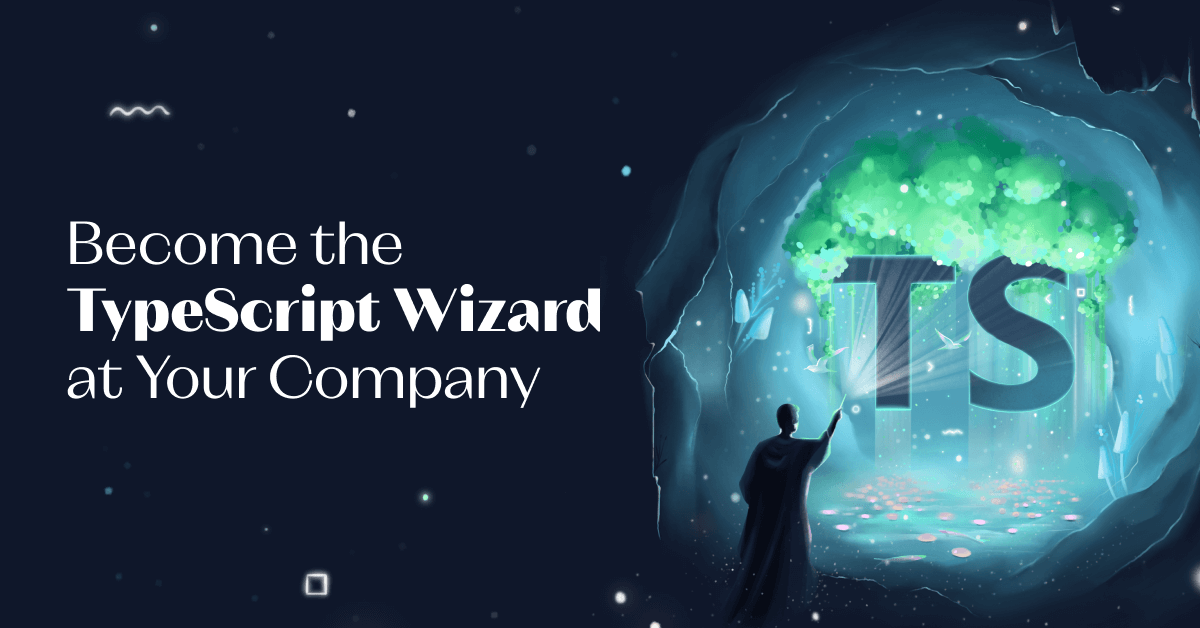
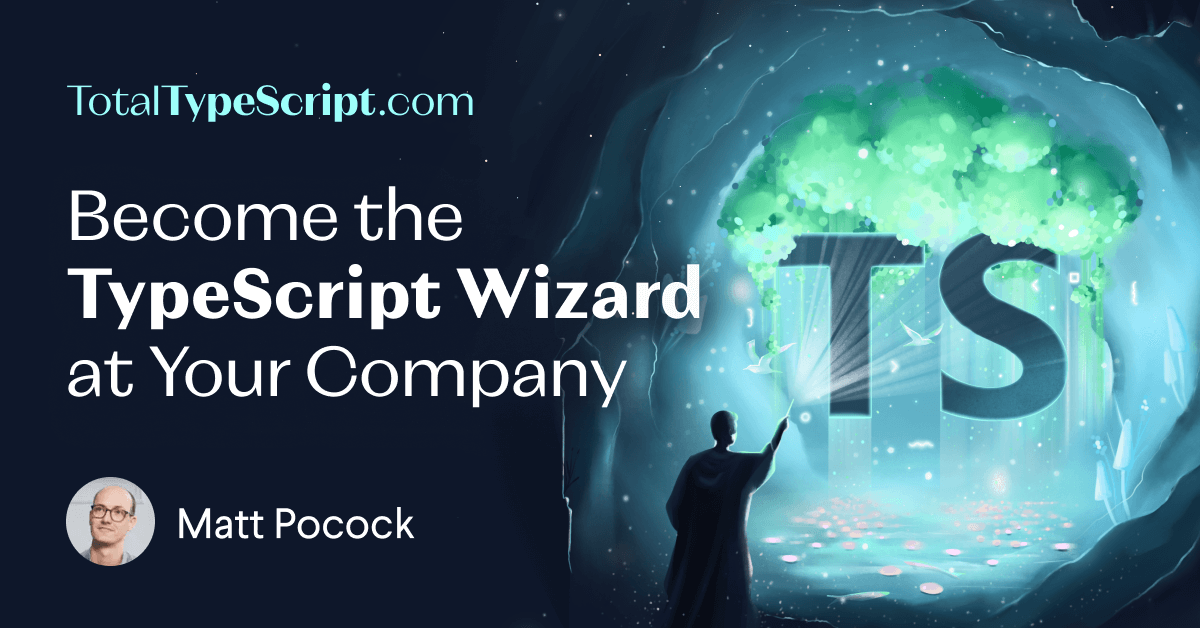
feat(tt): prep CTAs for PE and CV (#1579)
* feat(tt): prepare home page cta for PE and CV products

* feat(tt): prepare buy page cta for PE and CV products

* style(tt): update default share card

diff --git a/apps/total-typescript/src/pages/buy.tsx b/apps/total-typescript/src/pages/buy.tsx
@@ -1,6 +1,9 @@
 import React from 'react'
 import {GetServerSideProps} from 'next'
-import type {CommerceProps} from '@skillrecordings/commerce-server/dist/@types'
+import type {
+  CommerceProps,
+  SanityProduct,
+} from '@skillrecordings/commerce-server/dist/@types'
 import {propsForCommerce} from '@skillrecordings/commerce-server'
 import {Element} from 'react-scroll'
 import {Pricing} from '@skillrecordings/skill-lesson/path-to-purchase/pricing'
@@ -11,7 +14,7 @@ import {motion, useScroll, useTransform} from 'framer-motion'
 import {useCoupon} from '@skillrecordings/skill-lesson/path-to-purchase/use-coupon'
 import cx from 'classnames'
 import {PriceCheckProvider} from '@skillrecordings/skill-lesson/path-to-purchase/pricing-check-context'
-import {getPricing} from '@skillrecordings/skill-lesson/lib/pricing'
+import {getPricing} from '@/lib/pricing'
 
 export const getServerSideProps: GetServerSideProps = async (context) => {
   const {req, query} = context
@@ -20,7 +23,11 @@ export const getServerSideProps: GetServerSideProps = async (context) => {
   const pricing = await getPricing('primary')
   const products = pricing && pricing.products
 
-  return await propsForCommerce({query, token, products})
+  return await propsForCommerce({
+    query,
+    token,
+    products: products as unknown as SanityProduct[],
+  })
 }
 
 const Buy: React.FC<React.PropsWithChildren<CommerceProps>> = ({
@@ -63,14 +70,11 @@ const Buy: React.FC<React.PropsWithChildren<CommerceProps>> = ({
   const purchasedProductIds = purchases.map((purchase) => purchase.productId)
 
   const sortedProductsByName = products.sort((a, b) => {
-    if (a.title === 'Core Volume') {
+    if (a.title === 'TypeScript Pro Essentials') {
       return -1
     }
-    if (b.title === 'Core Volume + React Bundle') {
+    if (b.title === 'Complete Volume') {
       return 0
-    }
-    if (b.title === 'Advanced React with TypeScript') {
-      return 1
     }
     return 0
   })
@@ -96,8 +100,8 @@ const Buy: React.FC<React.PropsWithChildren<CommerceProps>> = ({
         className="select-none object-contain object-top"
         quality={100}
       />
-      <main className="relative z-10 flex flex-col items-center justify-center py-28 sm:py-36">
-        <h1 className="relative z-10 px-5 pb-10 pt-5 text-center font-heading text-4xl font-bold sm:text-5xl">
+      <main className="relative z-10 flex flex-col items-center justify-center py-24 sm:py-32">
+        <h1 className="relative z-10 px-5 pb-16 pt-5 text-center font-heading text-4xl font-bold sm:text-5xl">
           Become a TypeScript Wizard
         </h1>
         <motion.div style={{y}} className="absolute top-0 h-screen w-full">
@@ -110,26 +114,22 @@ const Buy: React.FC<React.PropsWithChildren<CommerceProps>> = ({
             quality={100}
           />
         </motion.div>
-        <section className="px-5 pt-20">
-          <div className="grid gap-40 lg:flex lg:gap-8 xl:gap-16">
+        <section className="px-5 pt-24">
+          <div className="flex flex-col-reverse gap-40 lg:flex lg:flex-row lg:gap-0">
             {redeemableCoupon ? <RedeemDialogForCoupon /> : null}
             {sortedProductsByName?.map((product, i) => {
               const isFirst = products.length > 1 && i === 0
               const isLast = products.length > 1 && i === products.length - 1
-              const isPro = !isFirst && !isLast
+              const isPro = !isFirst && isLast
 
               return (
                 <PriceCheckProvider purchasedProductIds={purchasedProductIds}>
                   <div
                     key={product.name}
                     className={cx('transition hover:opacity-100', {
-                      'mx-auto max-w-sm origin-top-right opacity-90 lg:mt-16 lg:scale-95':
+                      'mx-auto max-w-sm origin-top-left opacity-80 lg:mt-28 lg:scale-[90%]':
                         isFirst,
-                      'mx-auto max-w-sm origin-top-left opacity-80 lg:mt-28 lg:scale-[80%]':
-                        isLast,
-                      // switch up order when stacked vertically
-                      'row-start-1 origin-top xl:scale-105': isPro,
-                      'row-start-3': isLast,
+                      'origin-top lg:scale-105': isPro,
                     })}
                   >
                     <Element name="buy" aria-hidden="true" />

diff --git a/apps/total-typescript/src/templates/home-template.tsx b/apps/total-typescript/src/templates/home-template.tsx
@@ -55,14 +55,11 @@ export const HomeTemplate: React.FC<
   const couponId =
     couponIdFromCoupon || (validCoupon ? couponFromCode?.id : undefined)
   const sortedProductsByName = products.sort((a, b) => {
-    if (a.title === 'Core Volume') {
+    if (a.title === 'TypeScript Pro Essentials') {
       return -1
     }
-    if (b.title === 'Core Volume + React Bundle') {
+    if (b.title === 'Complete Volume') {
       return 0
-    }
-    if (b.title === 'Advanced React with TypeScript') {
-      return 1
     }
     return 0
   })
@@ -87,15 +84,22 @@ export const HomeTemplate: React.FC<
       <main>
         <Copy level={skillLevel} />
         {isSellingLive ? (
-          <MDXComponents.Section
-            className="-mb-40 flex flex-col items-center py-24 pb-56 sm:py-40 sm:pb-56"
+          <div
+            className="flex flex-col items-center pb-16 pt-24 sm:pt-32"
             // slot={null}
           >
-            <h2 className="mx-auto max-w-screen-lg px-3 text-center font-heading text-3xl font-bold sm:text-5xl lg:text-5xl xl:text-6xl">
-              <Balancer>Your Total TypeScript Adventure Starts Now</Balancer>
+            <Image
+              width={300}
+              src={require('../../public/assets/feather@2x.png')}
+              alt=""
+              aria-hidden="true"
+              className="mb-16 max-w-[300px] -rotate-12 sm:max-w-full"
+            />
+            <h2 className="mx-auto max-w-screen-lg text-balance px-3 text-center font-heading text-3xl font-bold sm:text-5xl lg:text-6xl xl:text-6xl">
+              Your Total TypeScript Adventure Starts Now
             </h2>
             <div
-              className="flex w-full flex-col items-center pb-32 pt-12"
+              className="flex w-full flex-col items-center px-5 pb-0 pt-12 sm:pb-24"
               id="buy"
             >
               <Image
@@ -106,14 +110,14 @@ export const HomeTemplate: React.FC<
                 className="pointer-events-none z-0 translate-y-80 select-none object-contain object-top"
                 quality={100}
               />
-              <section className="px-5 pt-20">
-                <div className="grid gap-40 lg:flex lg:gap-8 xl:gap-16">
+              <section className="pt-32">
+                <div className="flex flex-col-reverse gap-40 lg:flex lg:flex-row lg:gap-0">
                   {redeemableCoupon ? <RedeemDialogForCoupon /> : null}
                   {sortedProductsByName?.map((product, i) => {
                     const isFirst = products.length > 1 && i === 0
                     const isLast =
                       products.length > 1 && i === products.length - 1
-                    const isPro = !isFirst && !isLast
+                    const isPro = !isFirst && isLast
 
                     return (
                       <PriceCheckProvider
@@ -123,13 +127,9 @@ export const HomeTemplate: React.FC<
                         <div
                           key={product.name}
                           className={cx('transition hover:opacity-100', {
-                            'mx-auto max-w-sm origin-top-right opacity-90 lg:mt-16 lg:scale-95':
+                            'mx-auto max-w-sm origin-top-left opacity-80 lg:mt-28 lg:scale-[90%]':
                               isFirst,
-                            'mx-auto max-w-sm origin-top-left opacity-80 lg:mt-28 lg:scale-[80%]':
-                              isLast,
-                            // switch up order when stacked vertically
-                            'row-start-1 origin-top xl:scale-105': isPro,
-                            'row-start-3': isLast,
+                            'origin-top lg:scale-105': isPro,
                           })}
                         >
                           <Element name="buy" aria-hidden="true" />
@@ -163,7 +163,7 @@ export const HomeTemplate: React.FC<
                 priority
               />
             </div>
-          </MDXComponents.Section>
+          </div>
         ) : (
           <SubscribeToNewsletter level={skillLevel} />
         )}

diff --git a/apps/total-typescript/src/lib/pricing.ts b/apps/total-typescript/src/lib/pricing.ts
@@ -1,0 +1,66 @@
+import groq from 'groq'
+import {sanityClient} from '@skillrecordings/skill-lesson/utils/sanity-client'
+import {z} from 'zod'
+import {ProductSchema} from './products'
+
+const PricingSchema = z.object({
+  _id: z.string(),
+  title: z.string(),
+  subtitle: z.string(),
+  slug: z.string(),
+  products: z.array(ProductSchema),
+})
+
+export const getPricing = async (slug: string = 'primary') => {
+  const pricing = await sanityClient.fetch(
+    groq`*[_type == 'pricing' && slug.current == $slug][0]{
+    _id,
+    title,
+    subtitle,
+    "slug": slug.current,
+    "products": products[@->.state == 'active']->{
+      _id,
+      _type,
+      _updatedAt,
+      _createdAt,
+      title,
+      description,
+      productId,
+      action,
+      type,
+      state,
+      "welcomeVideo": welcomeVideo->{"muxPlaybackId":muxAsset.muxPlaybackId, poster},
+      "slug": slug.current,
+      _id,
+      image {
+        url,
+        alt
+      },
+      "modules" : modules[]->{
+        title,
+        moduleType,
+        "slug": slug.current,
+        "image": image.asset->{url},
+        state,
+      },
+      "bonuses": *[_type == 'bonus'][]{...},
+      "features": features[]{
+        value,
+        icon
+      }
+    }
+    }`,
+    {
+      slug: slug,
+    },
+  )
+
+  const parsedPricing = PricingSchema.safeParse(pricing)
+
+  if (!parsedPricing.success) {
+    console.error(parsedPricing.error)
+    return null
+  }
+
+  return parsedPricing.data
+}

diff --git a/apps/total-typescript/src/pages/index.tsx b/apps/total-typescript/src/pages/index.tsx
@@ -1,17 +1,24 @@
 import {propsForCommerce} from '@skillrecordings/commerce-server'
-import {CommerceProps} from '@skillrecordings/commerce-server/dist/@types'
+import {
+  CommerceProps,
+  SanityProduct,
+} from '@skillrecordings/commerce-server/dist/@types'
 import {GetServerSideProps} from 'next'
 import {getToken} from 'next-auth/jwt'
 import * as React from 'react'
 import {HomeTemplate} from '../templates/home-template'
-import {getPricing} from '@skillrecordings/skill-lesson/lib/pricing'
+import {getPricing} from '@/lib/pricing'
 
 export const getServerSideProps: GetServerSideProps = async ({req, query}) => {
   const token = await getToken({req})
   const pricing = await getPricing('primary')
   const products = pricing && pricing.products
 
-  return await propsForCommerce({query, token, products})
+  return await propsForCommerce({
+    query,
+    token,
+    products: products as unknown as SanityProduct[],
+  })
 }
 
 export const HomePage: React.FC<React.PropsWithChildren<CommerceProps>> = (

diff --git a/apps/total-typescript/src/styles/pricing.css b/apps/total-typescript/src/styles/pricing.css
@@ -35,7 +35,7 @@
     [data-pricing-product='1'] {
       article {
         [data-pricing-product-header] {
-          @apply pt-12;
+          @apply pt-20;
         }
       }
     }
